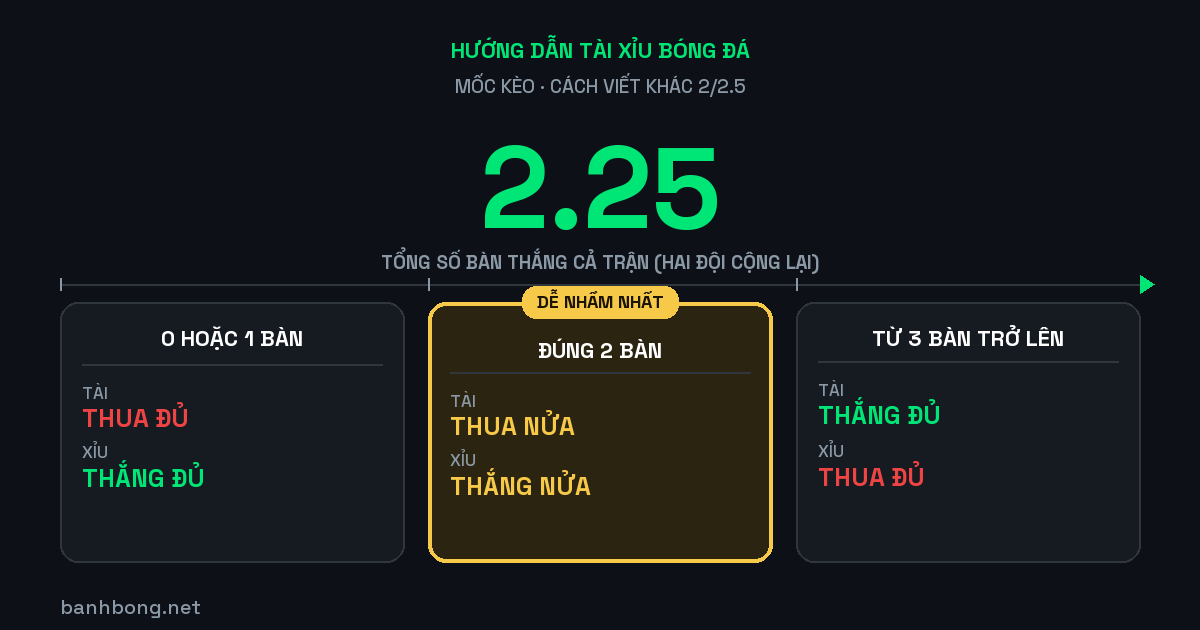
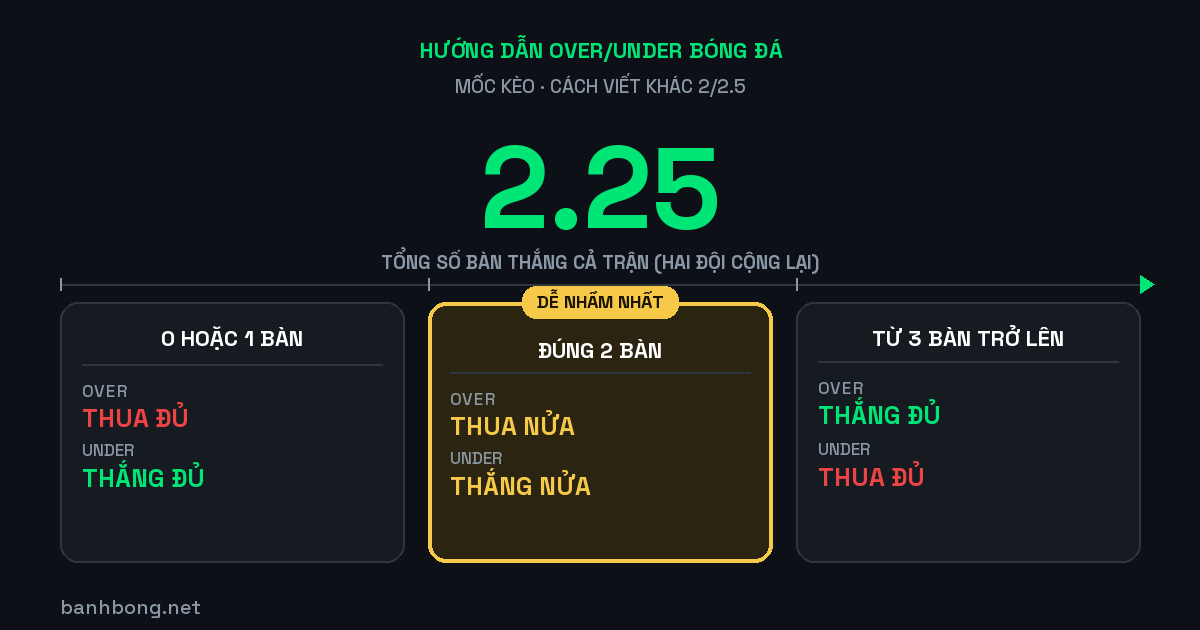
Bỏ chữ Tài/Xỉu → Over/Under: lọc máy viết + vẽ lại 22 ảnh guide (#397)
* fix(worker): chốt chặn tài/xỉu → Over/Under cho mọi bài LLM

Peter 14/11 cấm "tài xỉu", "Tài 2.5", "Xỉu 2.5" trên site; prompt rule vẫn lọt
(bài Việt Nam vs Kyrgyzstan 17/11). Thêm scrubTaiXiu (vi-lexicon.ts) chạy trong
callClaude nên mọi writer (preview, recap, news, noplay, postmortem, buzz-note,
watching-news, announce-pick) đều qua trước khi lưu. Giữ nguyên trọng tài,
tài năng, tài chính, ngất xỉu... VI_LEXICON_RULE ghi rõ Over 2.5 / Under 2.5.

* fix(worker): lọc tài/xỉu → Over/Under cho lời booth tiếng Việt

* Ảnh guide + thẻ OG guide: bỏ chữ tài xỉu → Over/Under

22 ảnh tĩnh (10 bìa huong-dan, 4 bìa huong-dan-bai, 8 sơ đồ guides) vẽ lại
chữ bằng Space Grotesk cùng cỡ/độ đậm/màu/vị trí; nền và hình giữ nguyên.
Neo /api/og/guide bài tai-xiu: Over 2.5 · Under 2.5. OG_VERSION 7 → 8 để
đổi URL ảnh, buộc cache/Facebook/Telegram lấy bản mới. Slug giữ nguyên.

---------

diff --git a/apps/worker/src/recap.ts b/apps/worker/src/recap.ts
@@ -18,6 +18,7 @@ export function isPlaceholderTeam(name: string): boolean {
 
 import { log } from './log';
 import { NGON_NGU } from './ngon-ngu';
+import { scrubTaiXiu } from './vi-lexicon';
 
 export const DEFAULT_MODEL = 'claude-haiku-4-5-20251001';
 // 4-language articles (~3500 tokens) need well over 20s — the 12/6 Canada preview
@@ -138,7 +139,7 @@ export const CLV_RULE =
  *  MỌI prompt sinh section tiếng Việt (recap, preview, analysis, post-mortem, no-play,
  *  watching-news) để không generator nào lọt "kèo". Section TH/EN/ES không áp ràng buộc này. */
 export const VI_LEXICON_RULE =
-  '- VIETNAMESE LEXICON (bản VI phải hợp pháp thị trường VN — Route A, 28/7): trong section tiếng Việt, dùng "nhận định" (nội dung phân tích), "dự đoán" (lựa chọn có kết quả cụ thể), "phân tích", "chọn trận"; TUYỆT ĐỐI KHÔNG dùng "kèo", "nhà cái", "cá cược", "cá độ", "đặt cược", "lô đề", "soi kèo", "gỡ thua", "tài/xỉu", "đưa ra nhận định" — kể cả ở tiêu đề. (Section Thái/Anh/Tây Ban Nha không áp ràng buộc này.)\n' +
+  '- VIETNAMESE LEXICON (bản VI phải hợp pháp thị trường VN — Route A, 28/7): trong section tiếng Việt, dùng "nhận định" (nội dung phân tích), "dự đoán" (lựa chọn có kết quả cụ thể), "phân tích", "chọn trận"; TUYỆT ĐỐI KHÔNG dùng "kèo", "nhà cái", "cá cược", "cá độ", "đặt cược", "lô đề", "soi kèo", "gỡ thua", "tài xỉu", "tài/xỉu", "Tài 2.5", "Xỉu 2.5", "đưa ra nhận định" — kể cả ở tiêu đề. Mốc bàn thắng viết "Over 2.5" / "Under 2.5", thị trường gọi "Over/Under" — TUYỆT ĐỐI KHÔNG viết "Tài"/"Xỉu" và KHÔNG dịch thành "Trên/Dưới". (Section Thái/Anh/Tây Ban Nha không áp ràng buộc này.)\n' +
   '- TÊN NHÂN VẬT BẢN VI (Nick chốt 21/8, đổi Admin → Chú Tám Banh theo Peter 15/9): trong section tiếng Việt gọi Curator là "Chú Tám Banh" và Scout là "Trợ lý AI" — TUYỆT ĐỐI KHÔNG để nguyên chữ "Curator", "Admin" hay "Scout" trong bản VI. (Section EN/TH/ES giữ nguyên tên gốc.)';
 
 /** Giọng Chú Tám Banh — CHỈ áp cho section tiếng Việt. Người rành bóng đá nói thẳng,
@@ -309,7 +310,8 @@ export async function callClaude(
       log.warn(`${context}: unexpected Anthropic response shape`, JSON.stringify(data).slice(0, 400));
       return null;
     }
-    return text.trim();
+    // Chốt chặn tài/xỉu → Over/Under (Peter 14/11) — mọi writer đi qua đây trước khi lưu.
+    return scrubTaiXiu(text.trim());
   } catch (err) {
     log.warn(`${context}: generation failed:`, err);
     return null;

diff --git a/apps/worker/src/vi-lexicon.test.ts b/apps/worker/src/vi-lexicon.test.ts
@@ -1,0 +1,43 @@
+import { describe, expect, it } from 'vitest';
+import { scrubTaiXiu } from './vi-lexicon';
+
+describe('scrubTaiXiu — rewrites betting tài/xỉu to Over/Under', () => {
+  it('rewrites "Tài 2.5" to "Over 2.5"', () => {
+    expect(scrubTaiXiu('Dự đoán: Tài 2.5')).toBe('Dự đoán: Over 2.5');
+  });
+  it('rewrites "Xỉu 2.5" to "Under 2.5"', () => {
+    expect(scrubTaiXiu('Chọn Xỉu 2.5 bàn.')).toBe('Chọn Under 2.5 bàn.');
+  });
+  it('rewrites comma decimal and split lines', () => {
+    expect(scrubTaiXiu('tài 2,5 hay xỉu 3.5/4')).toBe('Over 2,5 hay Under 3.5/4');
+  });
+  it('rewrites integer lines', () => {
+    expect(scrubTaiXiu('(Tài 3)')).toBe('(Over 3)');
+  });
+  it('rewrites "tài xỉu" phrase from the Kyrgyzstan article', () => {
+    expect(scrubTaiXiu('hai đội ghi bàn và tài xỉu từng trận'))
+      .toBe('hai đội ghi bàn và Over/Under từng trận');
+  });
+  it('rewrites "Tài/Xỉu" and "TÀI XỈU" variants', () => {
+    expect(scrubTaiXiu('Tài/Xỉu và TÀI XỈU')).toBe('Over/Under và Over/Under');
+  });
+  it('is idempotent', () => {
+    const once = scrubTaiXiu('Tài 2.5, tài xỉu');
+    expect(scrubTaiXiu(once)).toBe(once);
+  });
+});
+
+describe('scrubTaiXiu — leaves ordinary Vietnamese alone', () => {
+  it('keeps "trọng tài" even when followed by a number', () => {
+    const s = 'Trọng tài 2 lần rút thẻ, trọng tài chính bắt chắc tay.';
+    expect(scrubTaiXiu(s)).toBe(s);
+  });
+  it('keeps "tài năng", "tài chính", "tài liệu", "tài khoản"', () => {
+    const s = 'Tài năng trẻ, tài chính CLB, tài liệu, tài khoản, nhân tài 3 đội.';
+    expect(scrubTaiXiu(s)).toBe(s);
+  });
+  it('keeps "ngất xỉu" and words merely containing the letters', () => {
+    const s = 'Cầu thủ ngất xỉu 2 lần; đội Tài Lộc thắng.';
+    expect(scrubTaiXiu(s)).toBe(s);
+  });
+});

diff --git a/apps/worker/src/vi-lexicon.ts b/apps/worker/src/vi-lexicon.ts
@@ -1,0 +1,28 @@
+/**
+ * Chốt chặn cứng cho chữ "tài xỉu" (Peter 14/11: bỏ hẳn "tài xỉu", "Tài 2.5", "Xỉu 2.5"
+ * — nhãn đúng là "Over 2.5" / "Under 2.5" / "Over/Under", KHÔNG "Trên/Dưới").
+ * VI_LEXICON_RULE trong prompt vẫn lọt (bài Việt Nam vs Kyrgyzstan 17/11), nên mọi
+ * output LLM đi qua hàm này trước khi lưu. Chỉ đụng cụm cá cược — "trọng tài",
+ * "tài năng", "tài chính", "ngất xỉu"... giữ nguyên.
+ */
+
+/** "tài xỉu" / "tài/xỉu" / "Tài-Xỉu" đứng riêng thành từ. */
+const TAI_XIU_PAIR = /(?<!\p{L})tài\s*[/\-–]?\s*xỉu(?!\p{L})/giu;
+
+/** Mốc số: 2 · 2.5 · 2,5 · 3.5/4 */
+const LINE_NUM = String.raw`\d+(?:[.,]\d+)?(?:\/\d+(?:[.,]\d+)?)?`;
+
+/** Từ ghép tiếng Việt có "tài"/"xỉu" đứng sau — không được coi là mốc Over/Under
+ *  ("trọng tài 2 lần", "nhân tài 3 đội", "ngất xỉu 2 lần"). */
+const COMPOUND_BEFORE = String.raw`(?<!(?:trọng|nhân|thiên|tiền|đề|gia|tư|anh|hiền|đặc|bất|kỳ|kì|giảng|ngất|lăn|xây)\s+)`;
+
+const TAI_LINE = new RegExp(String.raw`${COMPOUND_BEFORE}(?<!\p{L})tài\s+(${LINE_NUM})(?![\p{L}\d])`, 'giu');
+const XIU_LINE = new RegExp(String.raw`${COMPOUND_BEFORE}(?<!\p{L})xỉu\s+(${LINE_NUM})(?![\p{L}\d])`, 'giu');
+
+/** Viết lại cụm tài/xỉu trong text tiếng Việt sang Over/Under. Pure, idempotent. */
+export function scrubTaiXiu(text: string): string {
+  return text
+    .replace(TAI_XIU_PAIR, 'Over/Under')
+    .replace(TAI_LINE, 'Over $1')
+    .replace(XIU_LINE, 'Under $1');
+}

diff --git a/apps/web/app/api/og/guide/route.tsx b/apps/web/app/api/og/guide/route.tsx
@@ -25,7 +25,7 @@ const ANCHORS: Record<string, { anchor: string; badge: string }> = {
   "what-makes-a-good-tipster": { anchor: "Record  ·  CLV  ·  Reasoning  ·  Transparency", badge: "GUIDE" },
   "no-play-discipline": { anchor: "Evaluated  →  No edge found  →  PASS", badge: "GUIDE" },
   "responsible-play-guide": { anchor: "Set limits  ·  Never chase  ·  Stay in control", badge: "GUIDE" },
-  "tai-xiu-la-gi-cach-doc-keo-over-under": { anchor: "Tài 2.5  ·  Xỉu 2.5  ·  mốc 3.0 hoà kèo", badge: "GUIDE" },
+  "tai-xiu-la-gi-cach-doc-keo-over-under": { anchor: "Over 2.5  ·  Under 2.5  ·  mốc 3.0 hoà kèo", badge: "GUIDE" },
   "vi-sao-ty-le-keo-khac-nhau-giua-cac-nguon": { anchor: "Bet365 1.90  ·  Pinnacle 1.95  →  vì sao lệch", badge: "GUIDE" },
   // Calculators
   "de-vig": { anchor: "Home 1.85  ·  Away 2.05  →  True: 52.6% / 47.4%", badge: "CALCULATOR" },

diff --git a/apps/web/lib/brand.ts b/apps/web/lib/brand.ts
@@ -26,6 +26,7 @@ export const SAME_AS = [
  * buộc edge cache + Facebook/Telegram lấy thẻ mới (v3: sửa lệch trái, Nick 25/8;
  * v4: recap OG bỏ ảnh Haaland, Nick+Peter 13/9;
  * v5: thẻ recap chuyển sang khuôn KẾT QUẢ có logo 2 đội, Peter 13/9;
- * v6: chân thẻ analysis in tên tác giả thay "Banh Bóng Desk (AI)", Peter 15/9).
+ * v6: chân thẻ analysis in tên tác giả thay "Banh Bóng Desk (AI)", Peter 15/9;
+ * v8: ảnh guide + thẻ /api/og/guide bỏ chữ "tài xỉu" → Over/Under, Peter 14/11).
  */
-export const OG_VERSION = 7;
+export const OG_VERSION = 8;

diff --git a/apps/web/lib/bia-guide.ts b/apps/web/lib/bia-guide.ts
@@ -2,7 +2,7 @@ import { OG_VERSION } from "@/lib/brand";
 import type { Lang } from "@/lib/i18n";
 
 /**
- * Bìa vẽ tay cho cụm guide tài xỉu/kèo tiếng Việt. Thẻ sinh runtime (/api/og/guide)
+ * Bìa vẽ tay cho cụm guide Over/Under/kèo tiếng Việt. Thẻ sinh runtime (/api/og/guide)
  * chỉ có tiêu đề; mấy bài này cần MỐC SỐ trên bìa, mà mốc phải đúng bài — bìa của
  * bài 2.25 mà khoe 2.5 là chỉ vào bài hàng xóm. Nên số vẽ sẵn theo từng slug, không
  * sinh động. Chữ trên bìa là tiếng Việt → chỉ dùng cho lang "vi".

diff --git a/apps/worker/src/booth-gen.ts b/apps/worker/src/booth-gen.ts
@@ -6,6 +6,7 @@
  */
 import type { BoothEventType } from './booth-detector';
 import { log } from './log';
+import { scrubTaiXiu } from './vi-lexicon';
 
 interface BoothLine { who: 'sonny' | 'cole'; text: string; }
 
@@ -303,7 +304,8 @@ export async function generateBoothExchange(
 
   return {
     lines_en: linesEn,
-    lines_vi: linesVi,
+    // Chốt chặn tài/xỉu → Over/Under (Peter 14/11) — booth không đi qua callClaude.
+    lines_vi: linesVi?.map((l) => ({ ...l, text: scrubTaiXiu(l.text) })) ?? null,
     lines_th: linesTh,
     lines_es: linesEs,
     lead_voice: leadVoice,
